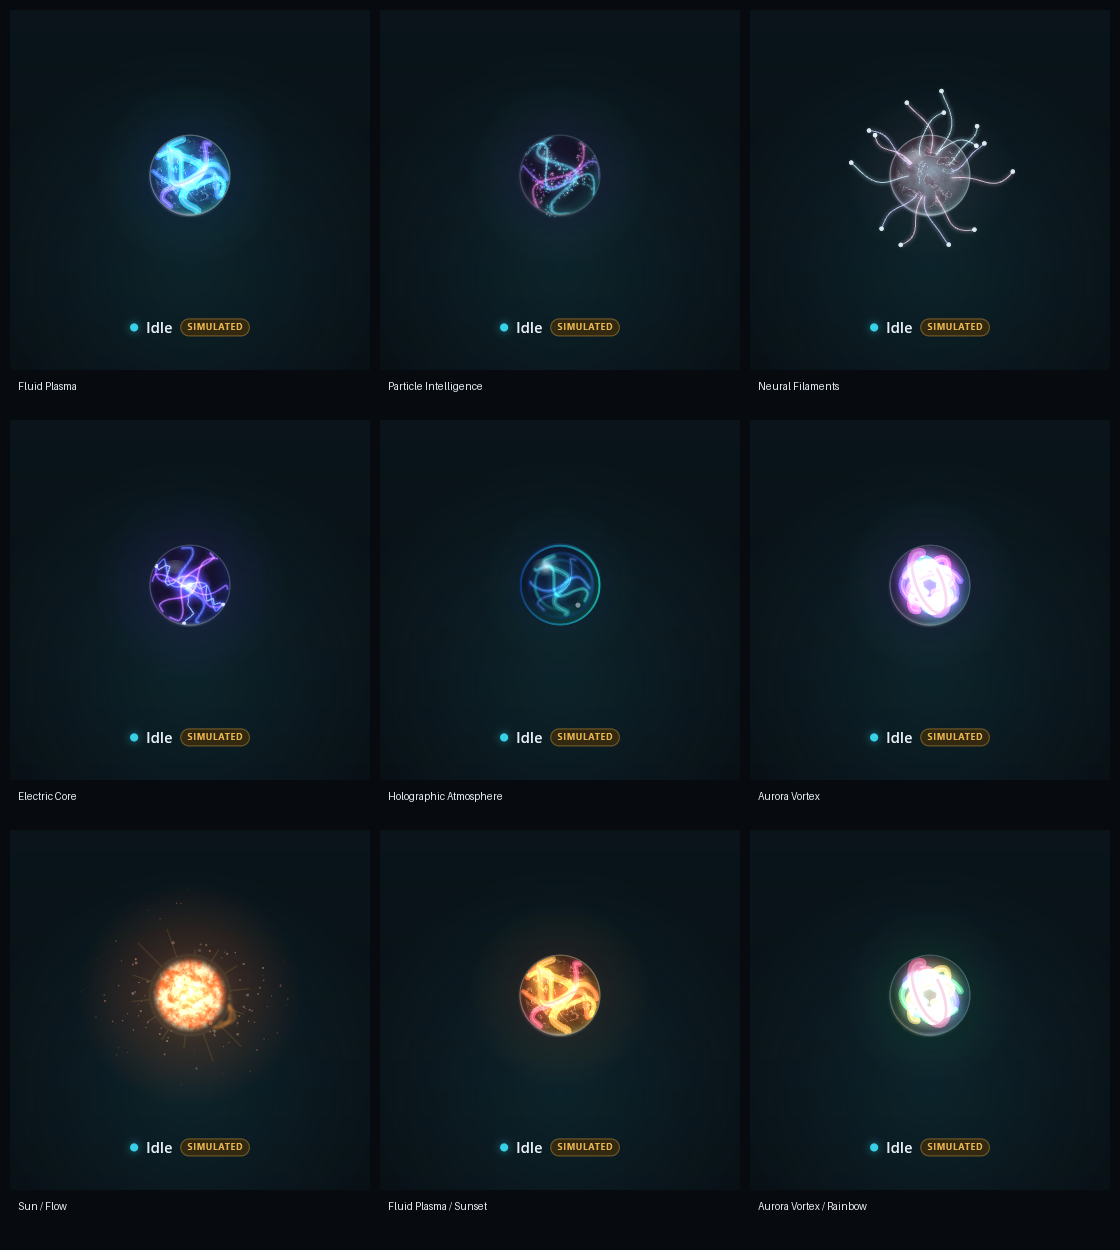
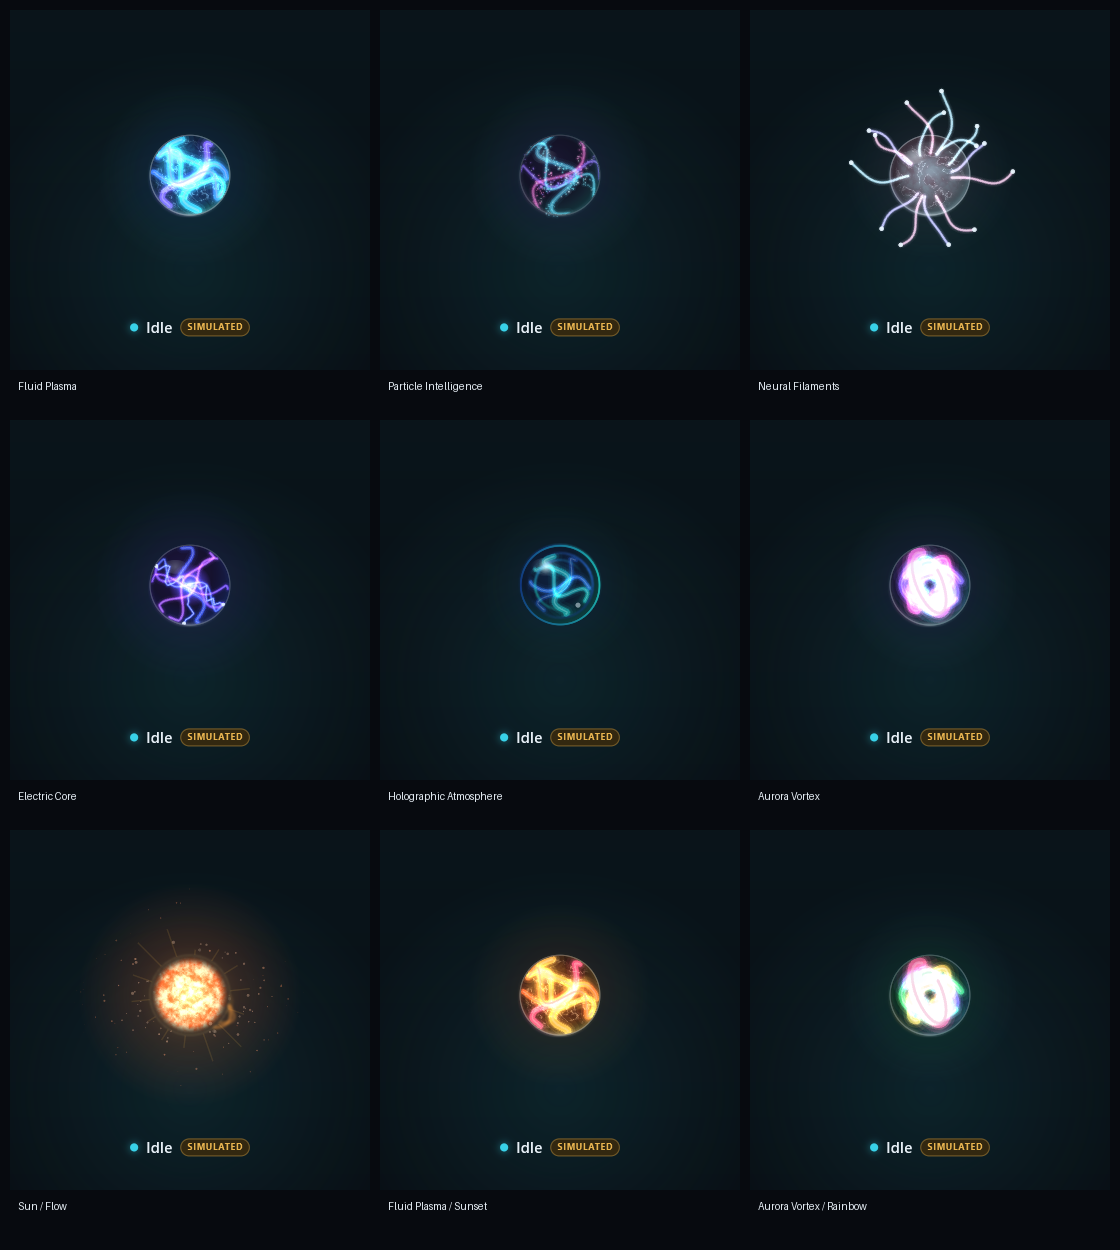
docs(ui-living): closing evidence: full suite 277 at 4aef264, Codex round 6, perf row provenance

diff --git a/docs/ui_phase/UI_TEST_EVIDENCE.md b/docs/ui_phase/UI_TEST_EVIDENCE.md
@@ -27,7 +27,8 @@ Commits in this phase (newest last):
 | Living suite at `4544f33` | `flutter test test/living` | `+69: All tests passed!` | COMPLETED_WITH_RESULT |
 | Full suite at `4544f33` | `flutter test` | `+274 ~2: All tests passed!` | COMPLETED_WITH_RESULT |
 | Living suite at `abb6b6d` | `flutter test test/living` | `+72: All tests passed!` | COMPLETED_WITH_RESULT |
-| Full suite at `abb6b6d` | `flutter test` | `+277 ~2: All tests passed!` at `a09f453`; at `838d1dd` only the living suite was re-run (`+72`), the full suite was not re-run before the session's usage limit (205 baseline + 72 living; the 2 skips are pre-existing live-runtime tests). Note: the `a09f453` commit message says 278; the measured number at that commit was 277. | COMPLETED_WITH_RESULT |
+| Full suite at `a09f453` | `flutter test` | `+277 ~2: All tests passed!` (205 baseline + 72 living; the 2 skips are pre-existing live-runtime tests). Note: the `a09f453` commit message says 278; the measured number was 277. | COMPLETED_WITH_RESULT |
+| Full suite at `4aef264` | `flutter test` | `+277 ~2: All tests passed!` | COMPLETED_WITH_RESULT |
 
 Living tests by file (72 at `abb6b6d`):
 
@@ -62,13 +63,11 @@ Run 1 (commit `d0a3751`, before the blur change):
 
 Finding PERF-1: the dashboard janked because every tile used a `BackdropFilter`; with the orb ticking at 60 fps each frame re-blurred eight backdrops. Fix in `4544f33`: `GlassPanel.blur` defaults to false and only the composer opts in.
 
-Run 2 (commit `4544f33`): see the table below, filled from `docs/ui_phase/perf/` when the run completes.
-
 Run 2 (started at commit `4544f33`; `SAMPLE_SECONDS=130`): the particle-only first build. Dashboard with blur opt-in: raster p95 4.4 ms, 0 frames over 16.7 ms per window (was 22.6 ms and ~154). Companion idle/working/reduced: raster p95 3.2 / 4.2 / 3.1 ms, 0 janky frames. Old `mesh` and `swarm` variants: raster p95 8.0 / 8.5 ms, 0-4 janky frames per window. (Logs for the superseded variants were replaced by run 3.)
 
-Run 3 (commit `a09f453` painter, `SAMPLE_SECONDS=100`): the first ribbon build used one `MaskFilter.blur` per ribbon/bolt/thread stroke. Result: every ribbon style janked (raster p95 about 34 ms, 110-156 of ~400-500 frames per window over 16.7 ms; Fluid Plasma 33.5 ms, Particle Intelligence 36.0 ms, Neural Filaments 36.1 ms, Electric Core 33.8 ms, Holographic 33.9 ms, Aurora 35.4 ms, Sun 26.8 ms; working state 16.6 ms). Finding PERF-2, fixed in the final commit: glow is now three widening additive strokes plus a hot core (`_glowStroke`); only hairline blurs (<= 1.6 px) remain. Those run-3 logs were replaced by run 4.
+Run 3 (commit `a09f453` painter, `SAMPLE_SECONDS=100`): the first ribbon build used one `MaskFilter.blur` per ribbon/bolt/thread stroke. Result: every ribbon style janked (raster p95 about 34 ms, 110-156 of ~400-500 frames per window over 16.7 ms; Fluid Plasma 33.5 ms, Particle Intelligence 36.0 ms, Neural Filaments 36.1 ms, Electric Core 33.8 ms, Holographic 33.9 ms, Aurora 35.4 ms, Sun 26.8 ms; working state 16.6 ms). Finding PERF-2, fixed in `838d1dd`: glow is now three widening additive strokes plus a hot core (`_glowStroke`); only hairline blurs (<= 1.6 px) remain. Those run-3 logs were replaced by run 4.
 
-Run 4 (final commit painter, `SAMPLE_SECONDS=100`, first window skipped, medians across windows; `docs/ui_phase/tools/summarize_perf.py` over `docs/ui_phase/perf/`):
+Run 4 (`838d1dd` painter, `SAMPLE_SECONDS=100`, first window skipped, medians across windows; `docs/ui_phase/tools/summarize_perf.py` over `docs/ui_phase/perf/`). Row provenance: `style_*`, `dashboard_plasma_profile` and `reduced_plasma_profile` are run 4 (logs written at `4aef264`); `companion_*`, `dashboard_profile` and `orb_*` are the older run-2 logs of the superseded particle-only variants, kept for comparison (Codex round 6 MINOR 1):
 
 | Scenario (log) | Windows | Frames / window | build p50 / p95 ms | raster p50 / p95 ms | total p95 ms | frames > 16.7 ms per window |
 |---|---|---|---|---|---|---|
@@ -109,7 +108,8 @@ Reading: the ">16.7 ms" column is the measure that matters on this machine; see 
 | 2 | `4544f33` | REJECTED | M1 Approval shown "done" from the simulator's seeded history; M2 `Colors.white` literals in the orb painter; N round-1 B1/B2/M4/M5 confirmed FIXED; N interactions UI-local; N boundary OK | both repaired in `cfdaf70` (`WorkItem.decided`, `UriGlass.specular`) |
 | 3 | `cfdaf70` | ACCEPTED WITH FINDINGS | MINOR: a cancel while awaiting approval was not counted as a recorded decision; N both round-2 repairs present, no regression, boundary OK | repaired in `f32a3b1` |
 | 4 | `a09f453` | REJECTED | M1 cancelling queued/working work counted as a decision; M2 the palette's hot light was not tinted by state; MINOR A1 pixel test only on the default style; N round-3 fix present, one state engine, no `Colors.white`, boundary OK | all repaired in `abb6b6d` |
-| 5 | `abb6b6d` | ACCEPTED WITH FINDINGS (abb6b6d) | MINOR: keep a working-state profile scenario (restored in 838d1dd); N: round-4 repairs FIXED, boundary OK | perf run 4 recorded below |
+| 5 | `abb6b6d` | ACCEPTED WITH FINDINGS | MINOR: keep a working-state profile scenario; N: round-4 repairs FIXED, boundary OK | scenario restored in `838d1dd`, log in run 4 |
+| 6 | `4aef264` | ACCEPTED WITH FINDINGS | MINOR 1: perf table mixed run-2 and run-4 logs under one label; MINOR 2: "fixed in the final commit" wording and a leftover placeholder; N: round-5 MINOR fixed, `_glowStroke` keeps reduced-effects behaviour, no literal colours, boundary OK | both wording issues fixed in the closing commit; full suite at `4aef264` recorded above |
 
 Codex's model config: the account's configured `gpt-6.1-sol` is refused for ChatGPT accounts in this session; `gpt-6-sol` worked. Codex output is a claim, not verification; the items above were checked against the code before being recorded as repaired.
 
